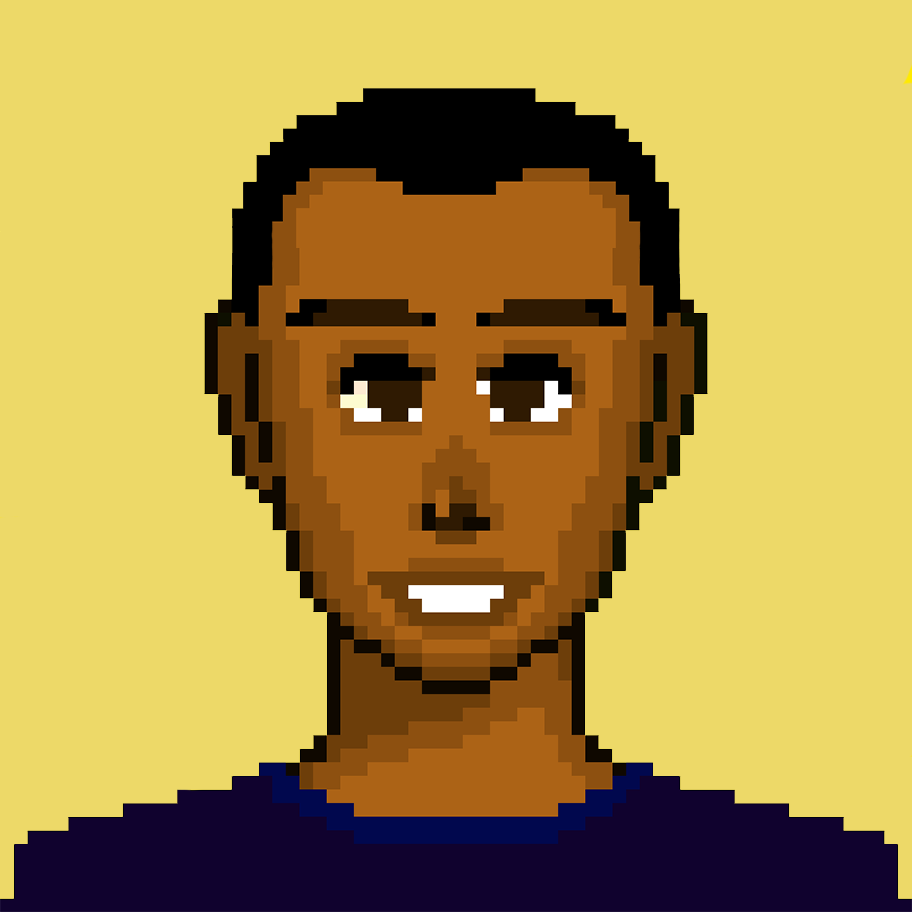
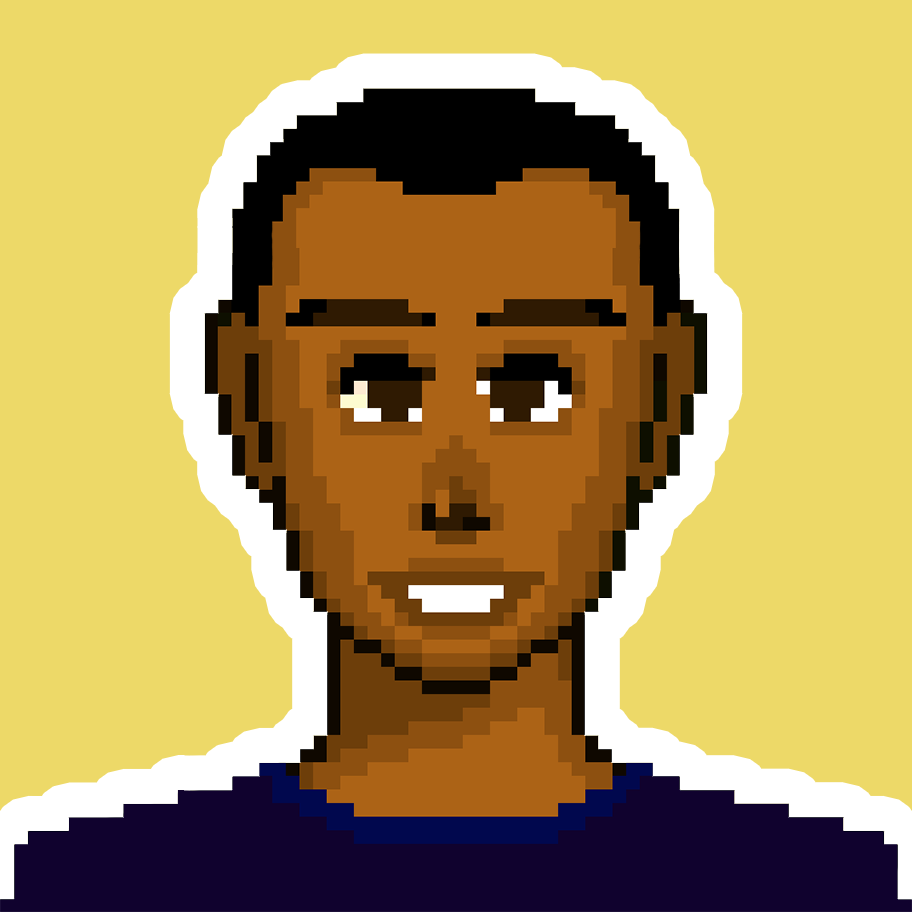
Adiciona tags Open Graphics e atualiza imagens

Changed region(s): [[0.0, 0.0307, 1.0, 1.0], [0.9825, 0.0614, 1.0, 0.0921]]

diff --git a/index.html b/index.html
@@ -5,12 +5,28 @@
     <meta name="viewport" content="width=device-width, initial-scale=1.0">
 
     <title>Valdecir Junior</title>
-    <meta name="description" content="">
+    <meta name="description" content="!">
+    <meta property="og:type" content="website">
+    <meta property="og:locale" content="pt_BR">
+    <meta property="og:title" content="Valdecir Junior">
+    <meta property="og:description" content="">
+    <meta property="og:image" content="./img/avatar.png">
 
-    <link rel="shortcut icon" href="./img/favicon.png" type="image/x-icon">
-    <link rel=icon href="./img/favicon.png" type="image/x-icon">
+    <link rel="shortcut icon" href="./img/favicon.ico" type="image/x-icon">
+    <link rel=icon href="./img/favicon.ico" type="image/x-icon">
 
     <link rel="stylesheet" href="./css/styles.css">
+
+    <!-- Global site tag (gtag.js) - Google Analytics -->
+    <script async src="https://www.googletagmanager.com/gtag/js?id=UA-122337090-3"></script>
+    <script>
+        window.dataLayer = window.dataLayer || [];
+        function gtag(){dataLayer.push(arguments);}
+        gtag('js', new Date());
+
+        gtag('config', 'UA-122337090-3');
+    </script>
+
 </head>
 <body>
     <main>
